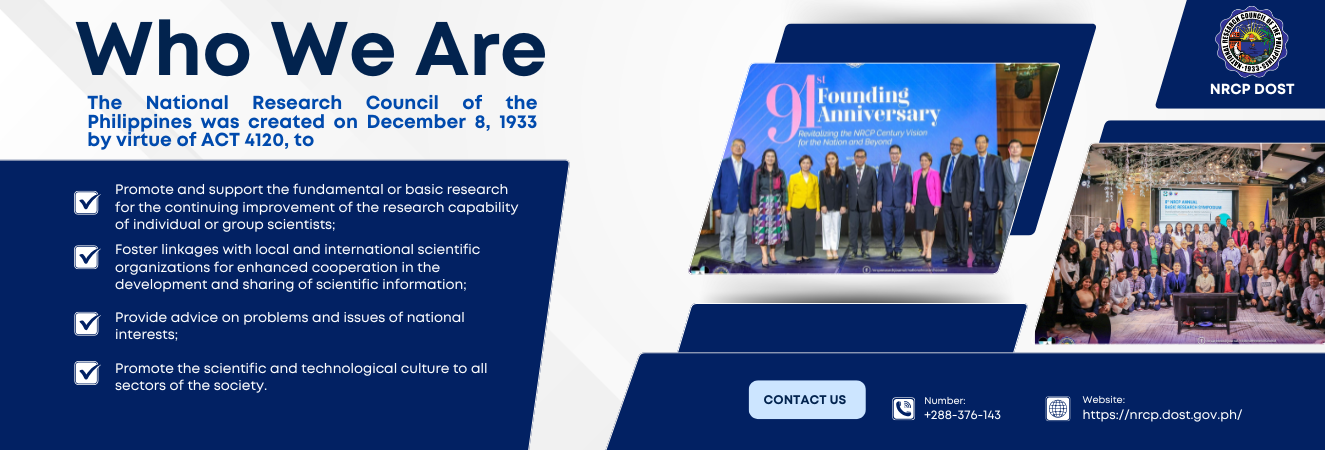
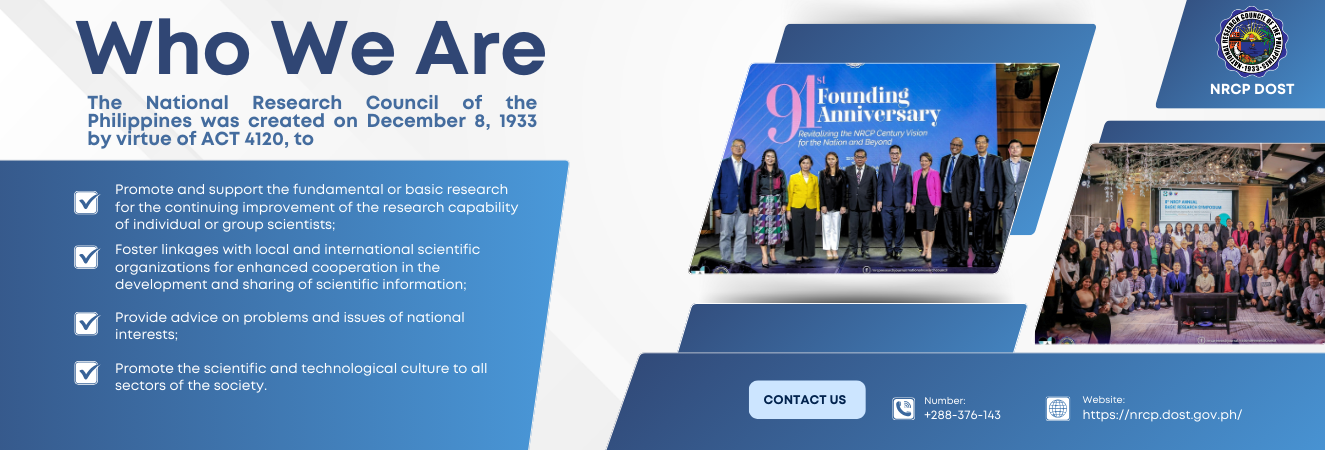
commitulitmeha

diff --git a/resources/css/styles/landing/LinkList.css b/resources/css/styles/landing/LinkList.css
@@ -44,7 +44,7 @@
     display: flex;
     align-items: center;
     justify-content: center;
-    background-color: #000000;
+    background-image: linear-gradient( #4f709c , #213555);
     border-radius: 8px;
     transition: all 0.2s;
     padding: 1rem;
@@ -57,7 +57,7 @@
     height: 80px;
     object-fit: cover;
     border-radius: 50%;
-    border: 2px solid #4e91fd;
+    border: 2px solid #ffffff;
     padding: 2px;
     background-color: rgb(255, 255, 255);
     margin-right: 1.5rem;
@@ -75,7 +75,7 @@
   }
   
   .link-item-container:hover {
-    background-color: #cce5ff;
+    background-image: linear-gradient( #84ace9 , #84ace9);
     transform: translateY(-2px);
     box-shadow: 0 4px 8px rgba(0, 0, 0, 0.15);
   }

diff --git a/resources/css/styles/landing/FeatureCarousel.css b/resources/css/styles/landing/FeatureCarousel.css
@@ -11,7 +11,7 @@
     width: 100%;
     height: 240px;
     padding-top: 15%; /* This creates an aspect ratio of 2.5:1 */
-    background-color: #4e91fd;
+    background-image: linear-gradient( #4f709c , #213555);
     border-radius: 8px;
     overflow: hidden;
 }

diff --git a/resources/css/styles/landing/AnnouncementCarousel.css b/resources/css/styles/landing/AnnouncementCarousel.css
@@ -10,7 +10,7 @@
 }   
 
 .announcement-container {
-    background-color: #c44e0b;
+    background-image: linear-gradient( #4f709c , #213555);
     padding: 0;
     border: 1px solid #dee2e6;
     border-radius: 8px;

diff --git a/resources/css/styles/landing/LandingHeader.css b/resources/css/styles/landing/LandingHeader.css
@@ -43,7 +43,7 @@
 .title {
     font-size: 1.5rem;
     font-weight: bold;
-    color: #4e91fd;
+    color: #213555;
     display: inline-block;
     font-family:helvetica;
     margin-left: 7px;
